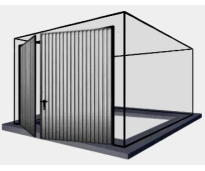
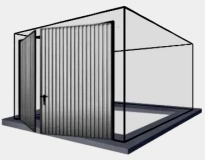
upload

diff --git a/app/components/home/Hero.js b/app/components/home/Hero.js
@@ -2,25 +2,48 @@
 import Image from "next/image";
 import Link from "next/link";
 import { Fade,Slide } from "react-awesome-reveal";
+import React, { useState, useEffect } from 'react';
 
-function Hero() {
+const Hero = () => {
+  const [scale, setScale] = useState(1);
+  const [rotate, setRotate] = useState(0);
+
+  useEffect(() => {
+    const handleScroll = () => {
+      const scrollTop = window.pageYOffset || document.documentElement.scrollTop;
+      const newScale = 1 + scrollTop / 1000; // Adjust this to control the rate of scaling
+      const newRotate = scrollTop / 100; // Adjust this to control the rate of rotation
+      setScale(newScale);
+      setRotate(newRotate);
+    };
+
+    window.addEventListener('scroll', handleScroll);
+
+    return () => {
+      window.removeEventListener('scroll', handleScroll);
+    };
+  }, []);
+
   return (
-    <div className="bg-[url(/images/hero2.webp)] bg-cover flex  bg-no-repeat lg:h-[500px] md:h-[600px] bg-bottom ">
-      <div className="flex items-end w-full justify-between  max-md:flex-col relative" >
+    <div className="bg-[url(/images/hero2.webp)] bg-cover flex  bg-no-repeat lg:h-[500px] md:h-[400px] bg-bottom ">
+      <div className="flex md:items-end w-full justify-between  max-md:flex-col relative" >
         <div className="flex  flex-col  items-start justify-center h-full md:pl-[10%] pl-2 max-sm:pt-10">
             <Fade triggerOnce direction="left" delay={500}>
             <h1 className="font-bold max-w-md text-white">Garaże <br />Klasy Premium </h1>
             </Fade>
             <Fade triggerOnce direction="left" delay={1000}>
-            <p className="text-2xl text-white max-w-md py-10 max-md:text-lg">Wyjątkowe Garaże od Premiumetal Jakość i Styl dla Twojego Domu</p>
+            <p className="text-2xl text-white max-w-md py-10 max-md:text-lg">Wyjątkowe Garaże od Premiumetal <br className="sm:hidden"></br> Jakość i Styl dla Twojego Domu</p>
             </Fade>
             
         </div>
         <Slide triggerOnce direction="right" delay={1500}>
-        <Image src="/images/garaz.webp" width={800} height={567}  className="hover:-translate-x-10 hover:scale-105 transition-all" alt="garage" />
+        <Image src="/images/garaz2.webp" width={800} height={567}  
+        className="hover:-translate-x-10 hover:scale-105 transition-all" 
+        style={{ transform: `scale(${scale}) rotateY(${rotate}deg)` }}
+        alt="garage" />
         </Slide>
-        <Fade triggerOnce delay={1500}>
-            <Link href="/kontakt"><button className="btn md:absolute left-[10%]  -bottom-5  bg-red">Kontakt</button></Link>
+        <Fade triggerOnce delay={1500} style={{ perspective: '1000px' }}>
+            <Link href="/kontakt"><button className="btn absolute left-[10%]  -bottom-5 bg-red" >Kontakt</button></Link>
             </Fade>
     </div>
     

diff --git a/app/akcesoria/page.js b/app/akcesoria/page.js
@@ -9,7 +9,7 @@ function page() {
 
           <p className="text-xl pt-10 pr-10">
             Zamawiając garaż blaszany warto pomyśleć o zakupie dodatkowych
-            akcesoriów, które nie tylko ulepszą twój garaż ale uczynią go
+            akcesoriów, które nie tylko ulepszą twój garaż, ale uczynią go
             bardziej praktycznym w użytkowaniu.
           </p>
         </div>
@@ -108,7 +108,7 @@ function page() {
             </div>
           </div>
           <div className="mr-auto max-w-[600px] pl-10 py-10 max-sm:pl-2">
-            <h4>Automat do bramy:</h4>   
+            <h4>Automat do bramy</h4>   
             <p>W skład zestawu wchodzi</p>        
             <ul className="list-disc list-inside">
               <li>1 siłownik HOME z wbudowaną centralą i odbiornikiem</li>
@@ -132,7 +132,7 @@ function page() {
              wartości estetycznej garażu, używamy nitów i śrub w kolorze
               zgodnym z kolorem blachy garażowej.</p>      
             <ul className="list-disc list-inside">
-              <li>Dopasowane do koloru garaż</li>             
+              <li>Dopasowane do koloru garażu</li>             
             </ul>
           </div>
           <img src="/images/nity.webp" className="md:w-60 w-20 pt-10 h-full" alt="" />

diff --git a/app/przygotowanie-podloza/page.js b/app/przygotowanie-podloza/page.js
@@ -45,7 +45,7 @@ function page() {
               wykopanie niewielkich otworów pod bloczki.
             </p>
           </div>
-          <img src="/images/wylewka_betonowa.webp" alt="" />
+          <img src="/images/betonowe_bloczki.webp" alt="" />
         </div>
         {/* ITEM 2 */}
         {/* ITEM 3 */}
@@ -58,7 +58,7 @@ function page() {
               jest szczególnie polecany dla trwalszych konstrukcji garażowych.
             </p>
           </div>
-          <img src="/images/wylewka_betonowa.webp" alt="" />
+          <img src="/images/fundament_obrys.webp" alt="" />
         </div>
         {/* ITEM 3 */}
       </div>

diff --git a/app/components/home/AboutPremium.js b/app/components/home/AboutPremium.js
@@ -5,7 +5,7 @@ import { Fade } from "react-awesome-reveal";
 function AboutPremium() {
   return (
     <div id="ofirmie">
-      <div className="flex gap-5 justify-center items-center">
+      <div className="flex md:gap-5 justify-center items-center">
         <img className="w-24" src="/PREMIUM.jpg" alt="logo" />
         <Fade direction="left" triggerOnce>
           <h2 className="text-center text-red">

diff --git a/app/informacje/page.js b/app/informacje/page.js
@@ -33,7 +33,7 @@ function page() {
             <h4 className="text-center">Uchylna podnoszona do góry</h4>
         </div>
         <div>
-            <img src="/images/uchylna.webp" alt="podnoszona" />
+            <img src="/images/otwierana.webp" alt="podnoszona" />
             <h4 className="text-center">Dwuskrzydłowa</h4>
         </div>
       </div>

diff --git a/app/components/home/HomeRealization.js b/app/components/home/HomeRealization.js
@@ -4,7 +4,7 @@ async function HomeRealization() {
 
 
   return (
-    <div className="container py-10 mx-auto px-2">
+    <div className="container pt-10 mx-auto px-2">
       <h2 className="text-6xl text-center text-red ">Realizujemy</h2>
       <p className="py-5 md:text-xl ">
         Specjalizujemy się w tworzeniu wysokiej jakości{" "}
